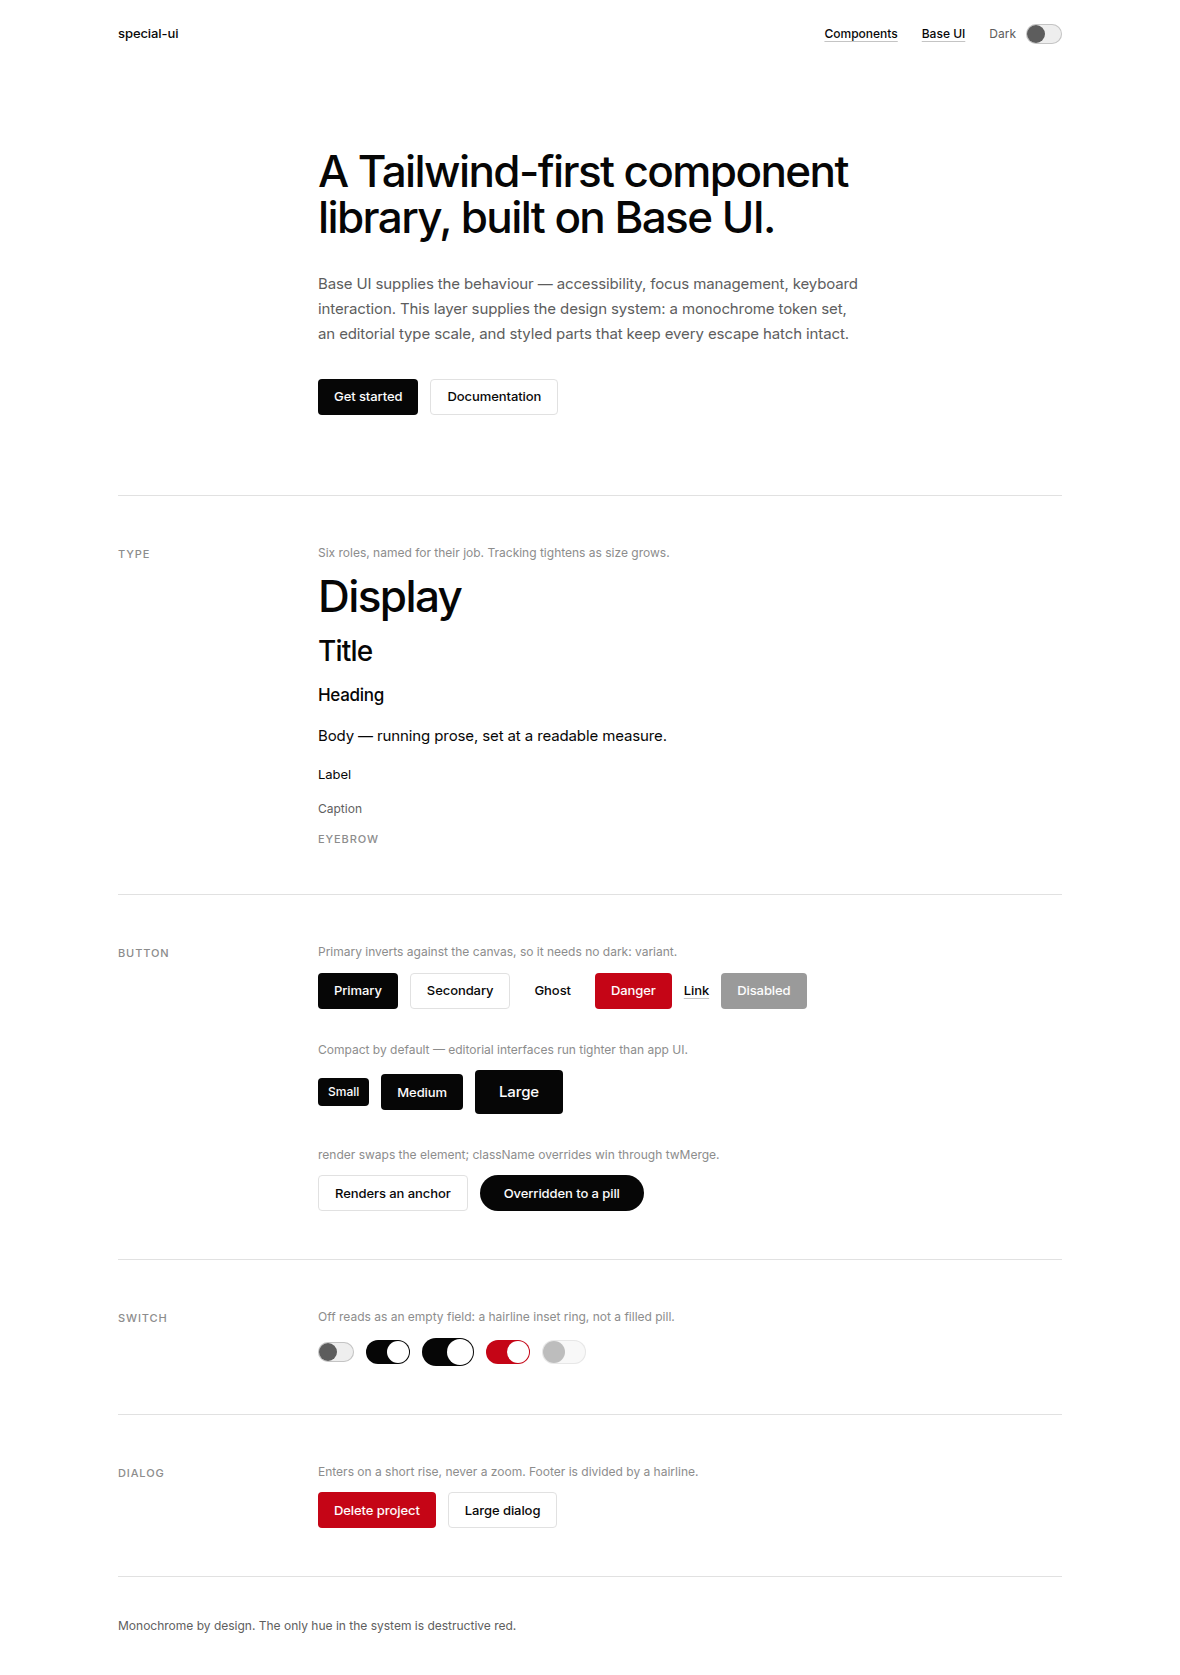
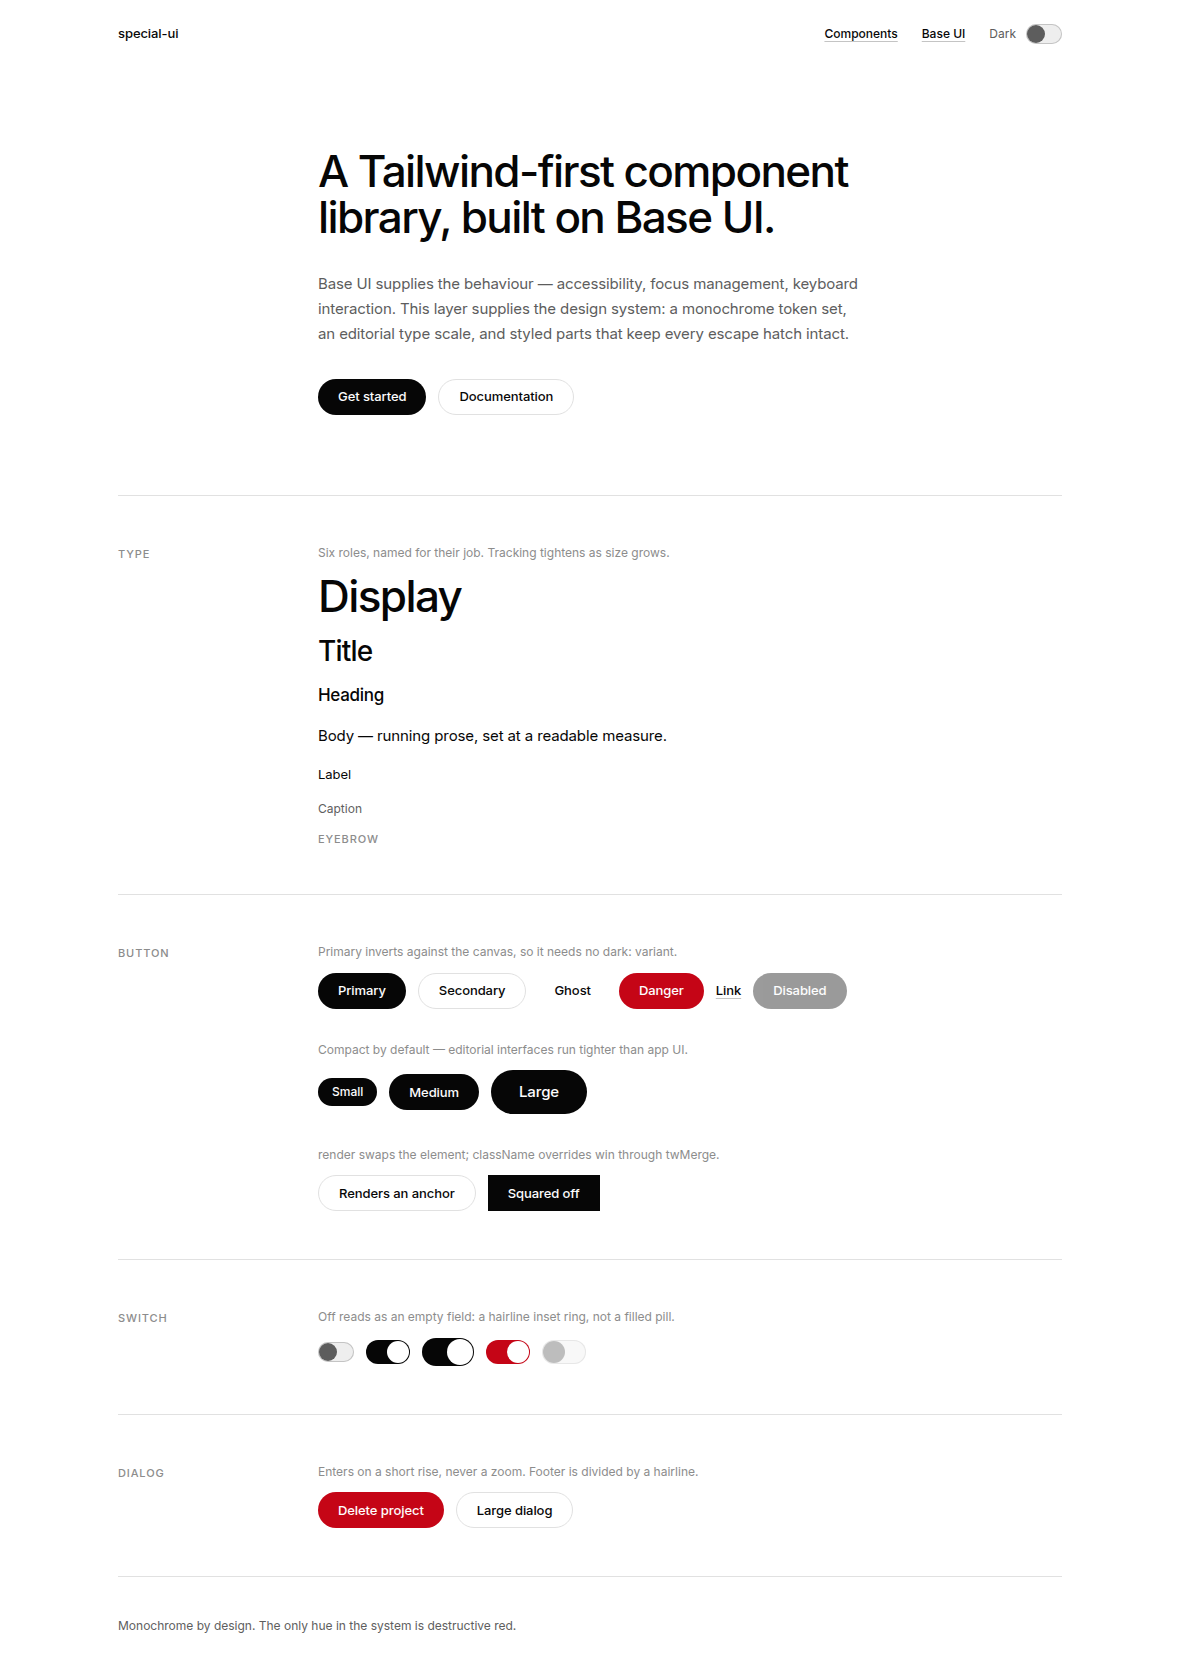
Split the control radius into button and field, make buttons pills
`--radius-control` encoded a claim — that buttons and text inputs should
always share a radius. At 0.25rem the claim held. At a pill it does not:
no design wants a pill-shaped text field. Setting the shared token to a
pill is exactly what falsifies its premise, so the split and the pill are
one decision rather than two.

Doing it now, while Button is the token's only consumer, is a one-line
rename. Deferring it means every Input, Select and Textarea added in the
meantime silently inherits a pill, and untangling which consumers meant
button-round from which meant field-round later is archaeology, because
the intent was never recorded anywhere.

  --radius-button: 9999px;   button, chip, badge, tag
  --radius-field: 0.25rem;   input, select, textarea
  --radius-surface: 0.375rem dialog, card, popover (unchanged)

Widens button padding a step at every size. Pills need more horizontal
room than square buttons — the rounded ends eat into the optical space
beside the label, so identical numeric padding reads tighter than it
measures.

Registers the new names as tailwind-merge class groups, without which
`cn('rounded-button', 'rounded-none')` would keep both classes and leave
CSS source order to pick the winner. Covered by a test asserting a
consumer can square off the pill.

Regenerates the screenshots and reverses the playground's override demo,
which previously showed rounding a square button and now shows squaring
off a pill.
[…]

diff --git a/packages/react/src/button/Button.tsx b/packages/react/src/button/Button.tsx
@@ -15,7 +15,7 @@ import type { VariantPropsOf } from '../internals/types';
 export const buttonStyles = defineVariants({
   base: [
     'inline-flex select-none items-center justify-center gap-2 whitespace-nowrap',
-    'rounded-control font-medium',
+    'rounded-button font-medium',
     'transition-colors duration-fast ease-editorial',
     // The focus ring is the foreground color, never a hue. In a monochrome
     // system a colored ring is the one thing that would break the palette.
@@ -49,10 +49,13 @@ export const buttonStyles = defineVariants({
       /** The single chromatic exception in the system. */
       danger: 'bg-danger text-danger-fg hover:bg-danger-hover',
     },
+    // Pills need more horizontal room than square buttons: the rounded ends
+    // eat into the optical space beside the label, so the same numeric padding
+    // reads tighter than it measures.
     size: {
-      sm: 'h-7 px-2.5 text-caption',
-      md: 'h-9 px-4 text-label',
-      lg: 'h-11 px-6 text-body',
+      sm: 'h-7 px-3.5 text-caption',
+      md: 'h-9 px-5 text-label',
+      lg: 'h-11 px-7 text-body',
     },
     fullWidth: {
       true: 'w-full',
@@ -71,10 +74,10 @@ export const buttonStyles = defineVariants({
     { variant: 'link', size: 'sm', class: 'h-auto rounded-none px-0' },
     { variant: 'link', size: 'md', class: 'h-auto rounded-none px-0' },
     { variant: 'link', size: 'lg', class: 'h-auto rounded-none px-0' },
-    // Ghost buttons have no edge, so they need tighter horizontal padding to
-    // stay optically aligned with adjacent text.
-    { variant: 'ghost', size: 'sm', class: 'px-2' },
-    { variant: 'ghost', size: 'md', class: 'px-3' },
+    // Ghost buttons have no edge until hovered, so they need tighter
+    // horizontal padding to stay optically aligned with adjacent text.
+    { variant: 'ghost', size: 'sm', class: 'px-3' },
+    { variant: 'ghost', size: 'md', class: 'px-4' },
   ],
 });
 

diff --git a/packages/react/src/button/Button.test.tsx b/packages/react/src/button/Button.test.tsx
@@ -10,7 +10,7 @@ describe('Button', () => {
     const button = screen.getByRole('button', { name: 'Save' });
 
     expect(button.tagName).toBe('BUTTON');
-    expect(button).toHaveClass('bg-accent', 'h-9', 'px-4');
+    expect(button).toHaveClass('bg-accent', 'h-9', 'px-5', 'rounded-button');
   });
 
   it('lets a consumer class override a built-in one on conflict', () => {
@@ -19,7 +19,7 @@ describe('Button', () => {
 
     expect(button).toHaveClass('px-8', 'bg-emerald-500');
     // This is the assertion that justifies the whole `cn`/twMerge layer.
-    expect(button).not.toHaveClass('px-4');
+    expect(button).not.toHaveClass('px-5');
     expect(button).not.toHaveClass('bg-accent');
   });
 
@@ -38,6 +38,16 @@ describe('Button', () => {
     expect(button).toHaveClass('w-full');
   });
 
+  it('lets a consumer square off the pill', () => {
+    render(<Button className="rounded-none">Save</Button>);
+    const button = screen.getByRole('button', { name: 'Save' });
+
+    // Only works because `rounded-button` is a registered twMerge class group;
+    // otherwise both radii survive and source order decides.
+    expect(button).toHaveClass('rounded-none');
+    expect(button).not.toHaveClass('rounded-button');
+  });
+
   it('applies compound variants', () => {
     render(
       <Button variant="ghost" size="sm">
@@ -45,8 +55,8 @@ describe('Button', () => {
       </Button>,
     );
 
-    expect(screen.getByRole('button')).toHaveClass('px-2');
-    expect(screen.getByRole('button')).not.toHaveClass('px-3');
+    expect(screen.getByRole('button')).toHaveClass('px-3');
+    expect(screen.getByRole('button')).not.toHaveClass('px-3.5');
   });
 
   it('supports a className function of Base UI state', () => {

diff --git a/packages/react/src/theme.css b/packages/react/src/theme.css
@@ -86,13 +86,21 @@
   --text-display--font-weight: 500;
 
   /* --- Shape ---------------------------------------------------------------
-   * Near-square. Swiss layout is rational and grid-derived, and heavy rounding
-   * reads as consumer-app rather than editorial.
+   * Three radii, split by shape language rather than by component taxonomy.
    *
-   * For the pill-shaped buttons on money.x.com, set `--radius-control: 9999px`
-   * — nothing else needs to change.
+   * Buttons are pills, after money.x.com. Fields are near-square, because
+   * Swiss layout is grid-derived and because a pill-shaped text input reads as
+   * a search box no matter what it contains. Those two facts cannot live in
+   * one `--radius-control` token: a single value is either wrong for buttons
+   * or wrong for inputs.
+   *
+   * Splitting them records the intent. A future Chip or Badge takes
+   * `--radius-button` and is correct by construction; a future Select takes
+   * `--radius-field` and is likewise correct, with nobody having to remember
+   * which bucket it belonged in.
    */
-  --radius-control: 0.25rem;
+  --radius-button: 9999px;
+  --radius-field: 0.25rem;
   --radius-surface: 0.375rem;
 
   /* --- Elevation -----------------------------------------------------------

diff --git a/packages/react/src/styles/cn.ts b/packages/react/src/styles/cn.ts
@@ -20,11 +20,11 @@ const twMerge = extendTailwindMerge({
       // and so would `text-title` and `text-fg-muted`, since twMerge cannot
       // otherwise tell a size token from a color token.
       'font-size': [{ text: ['eyebrow', 'caption', 'label', 'body', 'heading', 'title', 'display'] }],
-      // Without this, `cn('rounded-control', 'rounded-full')` keeps *both*
+      // Without this, `cn('rounded-button', 'rounded-none')` keeps *both*
       // classes: twMerge validates `rounded-*` against Tailwind's own scale,
-      // and `control`/`surface` are not in it. A consumer overriding the radius
-      // would then be at the mercy of CSS source order.
-      'rounded': [{ rounded: ['control', 'surface'] }],
+      // and `button`/`field`/`surface` are not in it. A consumer overriding the
+      // radius would then be at the mercy of CSS source order.
+      'rounded': [{ rounded: ['button', 'field', 'surface'] }],
       // Same reasoning for the named motion tokens, which are not numbers.
       'duration': [{ duration: ['fast', 'normal'] }],
       'ease': [{ ease: ['editorial'] }],

diff --git a/packages/react/src/styles/variants.test.ts b/packages/react/src/styles/variants.test.ts
@@ -24,8 +24,9 @@ describe('cn', () => {
     // missing from `extendTailwindMerge`, because twMerge validates these
     // utilities against Tailwind's own scales and our token names are not in
     // them. Source order would then decide the winner instead of the consumer.
-    expect(cn('rounded-control', 'rounded-full')).toBe('rounded-full');
-    expect(cn('rounded-full', 'rounded-control')).toBe('rounded-control');
+    expect(cn('rounded-button', 'rounded-none')).toBe('rounded-none');
+    expect(cn('rounded-none', 'rounded-button')).toBe('rounded-button');
+    expect(cn('rounded-field', 'rounded-button')).toBe('rounded-button');
     expect(cn('rounded-surface', 'rounded-none')).toBe('rounded-none');
     expect(cn('duration-fast', 'duration-500')).toBe('duration-500');
     expect(cn('ease-editorial', 'ease-linear')).toBe('ease-linear');

diff --git a/playground/src/App.tsx b/playground/src/App.tsx
@@ -141,7 +141,7 @@ export function App() {
                     <Button variant="secondary" render={<a href="https://base-ui.com" />}>
                       Renders an anchor
                     </Button>
-                    <Button className="rounded-full px-6">Overridden to a pill</Button>
+                    <Button className="rounded-none">Squared off</Button>
                   </Cluster>
                 </Spec>
               </Row>

diff --git a/packages/react/src/dialog/Dialog.test.tsx b/packages/react/src/dialog/Dialog.test.tsx
@@ -80,7 +80,7 @@ describe('Dialog', () => {
     await user.click(screen.getByRole('button', { name: 'Open' }));
 
     const close = screen.getByRole('button', { name: 'Cancel' });
-    expect(close).toHaveClass('rounded-control', 'border-line');
+    expect(close).toHaveClass('rounded-button', 'border-line');
     expect(close).not.toHaveClass('bg-accent');
   });
 

diff --git a/README.md b/README.md
@@ -88,7 +88,7 @@ Consumer classes always win on conflicting utilities — everything runs through
 ```
 
 Any custom token that shares a Tailwind utility prefix must be registered as a
-class group in `styles/cn.ts` — `rounded-control`, `text-body`, `shadow-overlay`
+class group in `styles/cn.ts` — `rounded-button`, `text-body`, `shadow-overlay`
 and the named durations all are. Without that, twMerge cannot tell the token
 from Tailwind's own scale and keeps both classes, leaving CSS source order to
 decide. Add a case to the regression test in `variants.test.ts` whenever you add
@@ -113,11 +113,13 @@ Redefine tokens; no need to fork a component. Semantic colours indirect through
 .dark { --su-bg: oklch(8.5% 0 0deg); --su-accent: oklch(97% 0 0deg); }
 ```
 
-Shape and motion are tokens too. To make every control pill-shaped, change one
-line rather than touching a component or a call site:
+Shape is a token too, split by shape language rather than component taxonomy —
+buttons are pills, fields are near-square, and no single value is right for
+both. Squaring off every button is one line, with no component or call site
+touched:
 
 ```css
-@theme { --radius-control: 9999px; }
+@theme { --radius-button: 0.25rem; }
 ```
 
 If you scope the theme to an element rather than `<html>`, wrap the app in
@@ -143,7 +145,7 @@ test/             shared test setup
 import { defineSlots, createStyledPart, createVariantContext } from '@special-ui/react';
 
 const styles = defineSlots({
-  slots: { root: 'rounded-control border', label: 'text-sm' },
+  slots: { root: 'rounded-surface border', label: 'text-sm' },
   variants: { size: { sm: { root: 'p-2', label: 'text-xs' }, md: { root: 'p-4' } } },
   defaultVariants: { size: 'md' },
 });

diff --git a/ARCHITECTURE.md b/ARCHITECTURE.md
@@ -306,7 +306,7 @@ is the sharpest recurring edge in a Tailwind-first library, and it fails
 extendTailwindMerge({
   extend: {
     classGroups: {
-      'rounded': [{ rounded: ['control', 'surface'] }],
+      'rounded': [{ rounded: ['button', 'field', 'surface'] }],
       'font-size': [{ text: ['eyebrow', 'caption', 'label', 'body', 'heading', 'title', 'display'] }],
       'shadow': [{ shadow: ['overlay'] }],
       'duration': [{ duration: ['fast', 'normal'] }],
